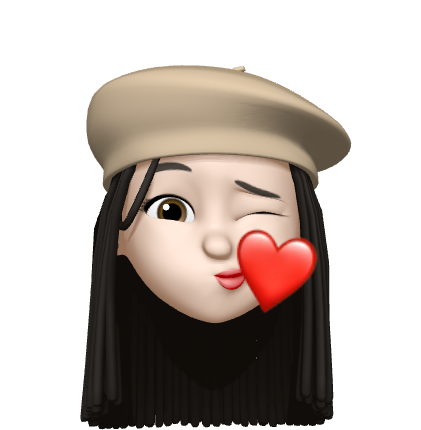
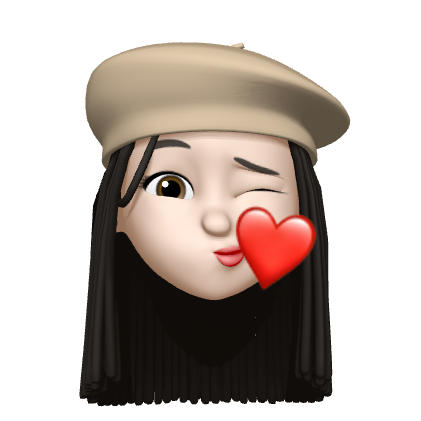
hover modified

Changed region(s): [[0.1853, 0.0926, 0.8337, 0.772], [0.1853, 0.6176, 0.8029, 1.0]]

diff --git a/style.css b/style.css
@@ -82,6 +82,12 @@ section .container {
   background-position: center 25%;
 }
 
+#imgwrapper img {
+  width: 65%;
+  position: relative;
+  top: 20px;
+}
+
 .content {
   display: table-cell;
   width: 80%;
@@ -120,7 +126,6 @@ section .container {
 #click {
   font-family: 'Homemade Apple', cursive;
   position: relative;
-  top: 5%;
 }
 
 
@@ -159,9 +164,10 @@ section .container {
     width: 80%;
     margin:auto;
   }
+  
   #imgwrapper img {
-    height: 100%;
   }
+
   .content {
     width: 80%;
     margin: auto;

diff --git a/index.html b/index.html
@@ -32,7 +32,7 @@
     <section>
       <div class="container">
         <div class="item" id="imgwrapper">
-          <img src="./empty.png" />
+          <img src="./index.png" onmouseover="this.src='./hover.png'" onmouseout="this.src='./index.png'"/>
           <p id="click">touch me, then I code!</p>
         </div>
         <div class="content">

diff --git a/likes.html b/likes.html
@@ -32,7 +32,7 @@
     <section>
       <div class="container">
         <div class="item" id="imgwrapper">
-          <img src="./empty.png" />
+          <img src="./likes.png" onmouseover="this.src='./hover.png'" onmouseout="this.src='./likes.png'"/>
           <p id="click">touch me, then I code!</p>
         </div>
         <div class="content">
